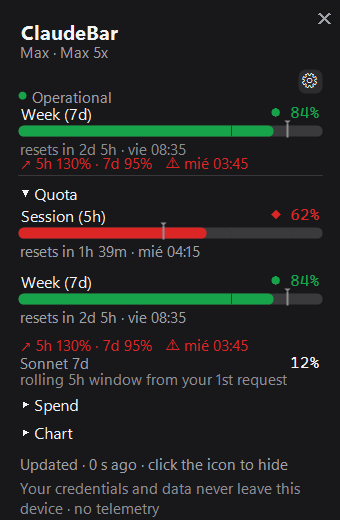
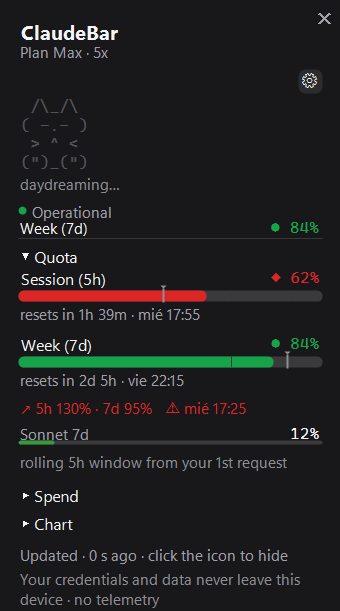
chore(v0.3.5): bump versión + assets (panel de ajustes, dashboard, GIFs) + README EN/ES
- Version 0.3.4 -> 0.3.5 (la fila "Versión" del panel ACERCA DE ahora muestra v0.3.5).
- assets/settings.png NUEVO: panel de ajustes rediseñado en una sola pantalla agrupada
  (CONTENIDO DEL PANEL / SESIONES EN VIVO con maestra + Mascota Oculta·Compacta·Grande /
  NOTIFICACIONES / FRECUENCIA / ICONO / APARIENCIA / SISTEMA / ACERCA DE).
- dashboard-{dark,light,cli,full}.png refrescados: mascota en su propia banda, sin el
  bloque de sesión duplicado, línea de pace entera.
- f3-{apertura,mascota,hover,celebracion}.gif regenerados con el layout nuevo (palette
  ffmpeg, nítidos, <230 KB).
- README.md / README.es.md: panel de ajustes como captura destacada, mascota visible por
  defecto (Mostrar mascota / Hidden-Compact-Large) y reactiva con sesiones en vivo, bloque
  de ajustes a una sola pantalla agrupada.

Changed region(s): [[0.0588, 0.1231, 0.9412, 1.0], [0.0588, 0.0308, 0.3529, 0.1231], [0.9412, 0.0, 0.9706, 0.0615]]

diff --git a/README.es.md b/README.es.md
@@ -23,10 +23,16 @@ Las barras de 5h/7d y sus valores se colorean por **ritmo** (pace), la gráfica 
 **Gasto $** (apilado por modelo) y **Cuota %** (utilización real en el tiempo), y el panel se
 auto-ajusta a las secciones que actives.
 
-Todo desplegado a la vez — la **mascota** de sesiones en vivo, las dos barras de cuota, el gasto por
+Todo desplegado a la vez — la **mascota** en su propia banda, las dos barras de cuota, el gasto por
 modelo y la gráfica de uso:
 
 <p align="center"><img src="assets/dashboard-full.png" alt="Dashboard completo con la mascota de sesiones en vivo" width="320"></p>
+
+**Una sola pantalla de ajustes** — todas las opciones en una página limpia y agrupada: toggles, filas
+maestra/dependiente (activa las sesiones en vivo y elige el tamaño de la mascota), selectores
+segmentados, sin ruido:
+
+<p align="center"><img src="assets/settings.png" alt="Panel de ajustes agrupado — todas las opciones en una pantalla" width="300"></p>
 
 **Arrástralo donde quieras y ajústale la opacidad** — el panel es un widget movible y semitransparente:
 
@@ -74,13 +80,15 @@ Icono de bandeja, por estado / ritmo:
 - **Temas** (Sistema / Oscuro / Claro / CLI + importar `.itermcolors`) y **9 idiomas**
   (Sistema + English, Español, Nederlands, Français, Deutsch, 日本語, 한국어, 繁體中文) — ambos
   por defecto siguen tu configuración de Windows.
-- **Sesiones en vivo (opt-in)**: una mascota ASCII en el dashboard reacciona a tus sesiones de
-  Claude Code en tiempo real (inactiva / trabajando / esperando aprobación / esperando input /
-  compactando / terminada), mediante hooks de Claude Code por un named pipe local; el icono de
-  bandeja añade un punto ámbar cuando una sesión necesita tu atención. Se activa/desactiva en
-  **Ajustes → Sesiones en vivo** — instala/quita los hooks en `~/.claude/settings.json` (con copia
-  de seguridad y confirmación).
-- Todo configurable desde el **panel de ajustes ⚙** del dashboard.
+- **Mascota**: un gato ASCII vive en el dashboard, visible por defecto (un gato *Idle* de ambiente) —
+  actívala/ocúltala con **Mostrar mascota** y elige **Oculta / Compacta / Grande**.
+- **Sesiones en vivo (opt-in)**: actívalas y la mascota reacciona a tus sesiones de Claude Code en
+  tiempo real (inactiva / trabajando / esperando aprobación / esperando input / compactando /
+  terminada), mediante hooks de Claude Code por un named pipe local; el icono de bandeja añade un
+  punto ámbar cuando una sesión necesita tu atención. Se activan/desactivan en **Ajustes → Sesiones
+  en vivo** — instala/quita los hooks en `~/.claude/settings.json` (con copia de seguridad y
+  confirmación).
+- Todo configurable desde el **panel de ajustes ⚙** del dashboard — una sola pantalla limpia y agrupada.
 
 ## De dónde sale el dato
 
@@ -131,12 +139,12 @@ Arranque automático: click derecho en el icono → **Ajustes → Iniciar con Wi
 
 ## Configuración (panel de ajustes en el dashboard)
 
-Abre el dashboard y pulsa el **⚙** (arriba a la derecha) — **toda la configuración vive ahí**, agrupada:
+Abre el dashboard y pulsa el **⚙** (arriba a la derecha) — **toda la configuración en una sola pantalla agrupada**:
 
 ```
-Secciones         ☑ Gasto estimado · ☑ Estado del servicio · ☑ Gráfica de uso
-Sesiones en vivo  ☑ Mascota · Tamaño (compacta/grande) · ☑ Silenciar si la terminal tiene foco
-                  [ Activar/Desactivar — instala/quita los hooks de Claude Code (con confirmación) ]
+Contenido panel   ☑ Gasto estimado · ☑ Estado del servicio · ☑ Gráfica de uso
+Sesiones en vivo  ☑ Activadas (instala/quita los hooks de Claude Code, con confirmación)
+                  Mostrar mascota · tamaño Oculta / Compacta / Grande · ☑ Silenciar si la terminal tiene foco
 Notificaciones    ☑ Activadas · ☑ Avisos de ritmo · hitos ☑25 ☑50 ☑75 ☑95
 Frecuencia        30s · 1min · 5min · 15min
 Icono             modo % / ▲ / %▲ · umbral de color 70/90 · 80/95 · 60/85

diff --git a/README.md b/README.md
@@ -23,10 +23,15 @@ The 5h/7d bars and their values are coloured by **pace** (burn-rate), the chart 
 **Spend $** (stacked by model) and **Quota %** (real utilisation over time), and the panel auto-sizes
 to whatever sections you enable.
 
-Everything expanded at once — the live-session **mascot**, both quota bars, per-model spend, and the
-usage chart:
+Everything expanded at once — the live-session **mascot** in its own band, both quota bars, per-model
+spend, and the usage chart:
 
 <p align="center"><img src="assets/dashboard-full.png" alt="Full dashboard with the live-session mascot" width="320"></p>
+
+**One settings screen** — every option on a single clean, grouped page: toggles, master/dependent rows
+(enable live sessions, then pick the mascot size), segmented pickers, no clutter:
+
+<p align="center"><img src="assets/settings.png" alt="Grouped settings panel — all options on one screen" width="300"></p>
 
 **Drag it anywhere, dial in the opacity** — the panel is a movable, see-through widget:
 
@@ -74,12 +79,14 @@ Tray icon, by status / pace:
 - **Themes** (System / Dark / Light / CLI + import `.itermcolors`) and **9 languages**
   (System + English, Español, Nederlands, Français, Deutsch, 日本語, 한국어, 繁體中文) — both
   default to your Windows settings.
-- **Live sessions (opt-in)**: an ASCII mascot in the dashboard reacts to your Claude Code sessions
-  in real time (idle / working / waiting for approval / waiting for input / compacting / ended),
-  driven by Claude Code hooks over a local named pipe; the tray icon adds an amber badge when a
-  session needs your attention. Toggle it from **Settings → Live sessions** — it installs/removes
-  the hooks in `~/.claude/settings.json` (with a backup and a confirmation prompt).
-- Everything is configurable from the in-dashboard **⚙ settings panel**.
+- **Mascot**: an ASCII cat lives in the dashboard, on by default (an ambient *Idle* cat) — toggle it
+  with **Show mascot** and pick **Hidden / Compact / Large**.
+- **Live sessions (opt-in)**: turn this on and the mascot reacts to your Claude Code sessions in real
+  time (idle / working / waiting for approval / waiting for input / compacting / ended), driven by
+  Claude Code hooks over a local named pipe; the tray icon adds an amber badge when a session needs
+  your attention. Toggle it from **Settings → Live sessions** — it installs/removes the hooks in
+  `~/.claude/settings.json` (with a backup and a confirmation prompt).
+- Everything is configurable from the in-dashboard **⚙ settings panel** — one clean, grouped screen.
 
 ## How the data works
 
@@ -132,12 +139,12 @@ Auto-start on login: right-click the tray icon → **Settings → Start with Win
 
 ## Configuration (in-dashboard settings panel)
 
-Open the dashboard and click the **⚙** (top-right) — **all settings live there**, grouped:
+Open the dashboard and click the **⚙** (top-right) — **all settings live on one grouped screen**:
 
 ```
-Sections          ☑ Estimated spend · ☑ Service status · ☑ Usage chart
-Live sessions     ☑ Mascot · Mascot size (compact/large) · ☑ Suppress when focused
-                  [ Enable/Disable — installs/removes Claude Code hooks (with confirmation) ]
+Panel content     ☑ Estimated spend · ☑ Service status · ☑ Usage chart
+Live sessions     ☑ Enabled (installs/removes Claude Code hooks, with confirmation)
+                  Show mascot · size Hidden / Compact / Large · ☑ Suppress when focused
 Notifications     ☑ Enabled · ☑ Pace alerts · milestones ☑25 ☑50 ☑75 ☑95
 Update frequency  30s · 1min · 5min · 15min
 Icon              mode % / ▲ / %▲ · colour threshold 70/90 · 80/95 · 60/85
